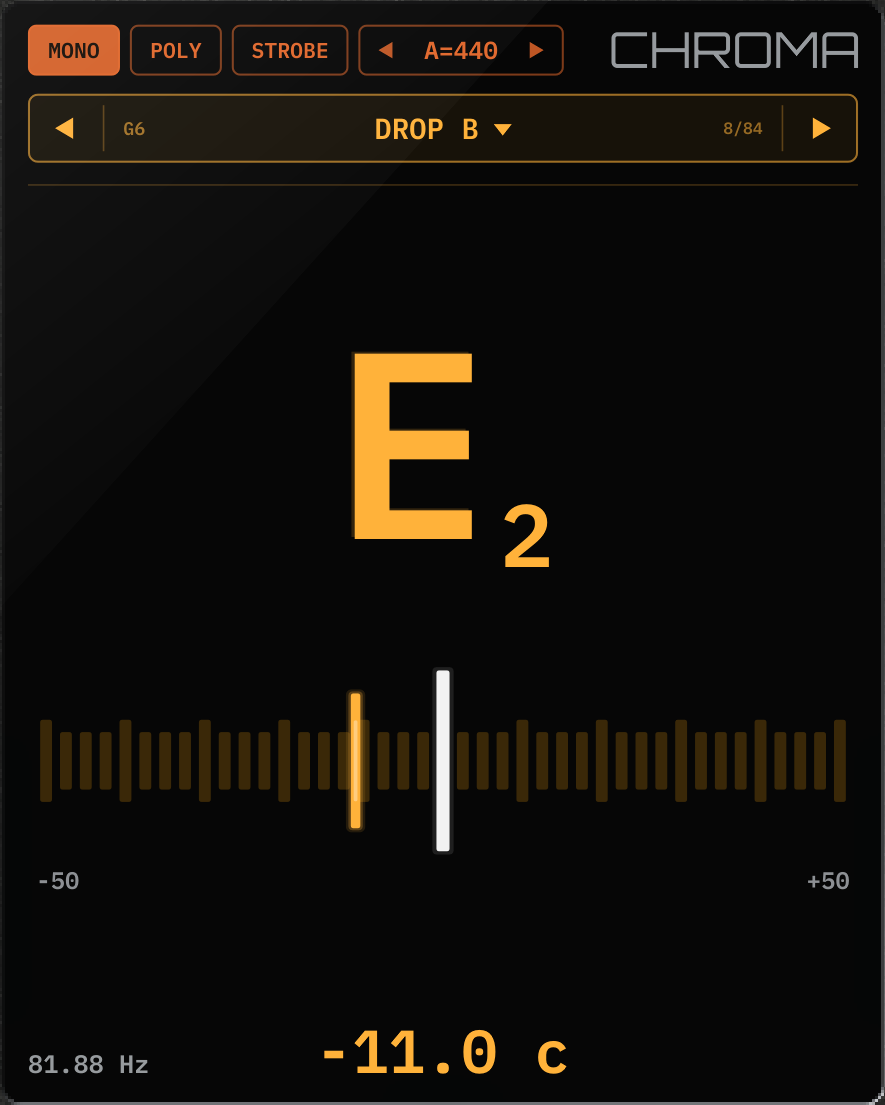
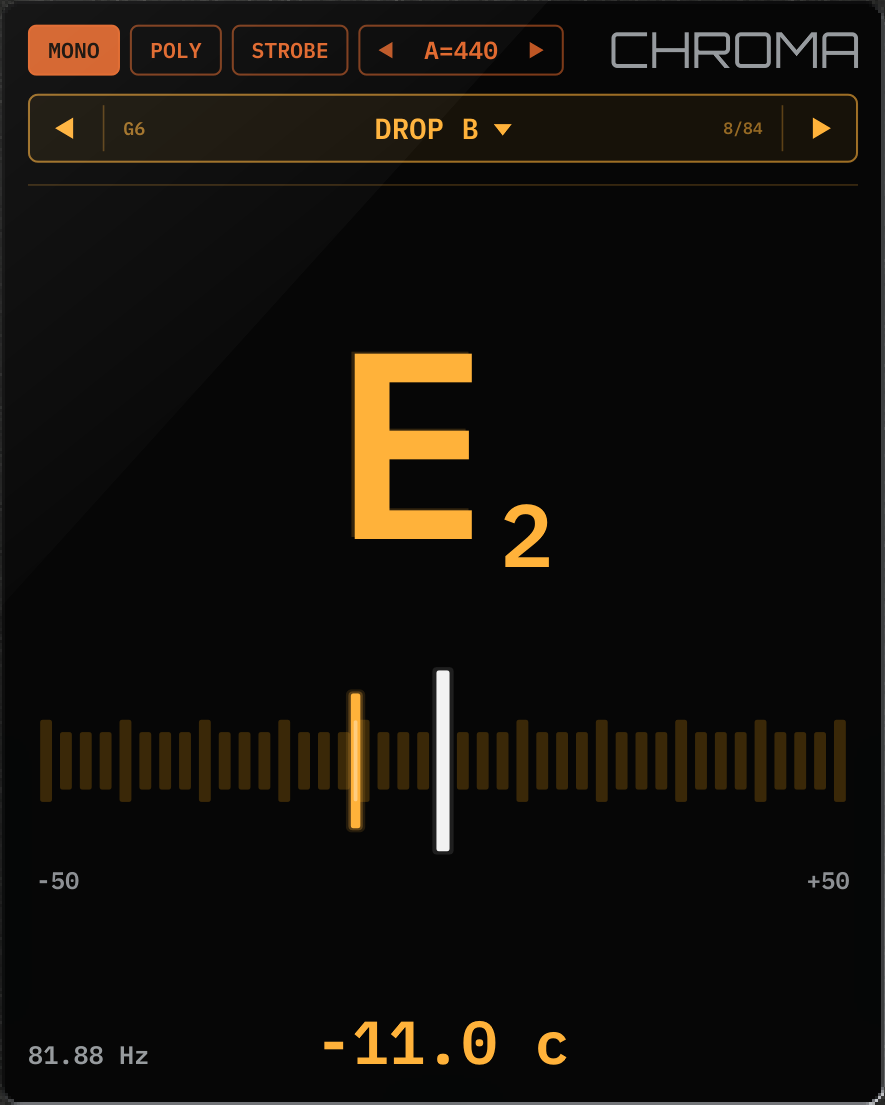
v2.0.3 : ligne du bas MONO remontee de 10
Claude-Session: https://claude.ai/code/session_012HH6mRf2cC7jwjeVzj71bC

Changed region(s): [[0.3661, 0.9231, 0.5797, 0.9846], [0.0305, 0.9231, 0.1831, 0.9846], [0.6102, 0.9231, 0.6407, 0.9846]]

diff --git a/PluginEditor.cpp b/PluginEditor.cpp
@@ -436,7 +436,7 @@ void TunaDisplay::paintMono (Graphics& g, const tuna::Snapshot& sn)
     g.drawText ("+50", Rectangle<float> (x1 - 120.0f, cy + 125.0f, 120.0f, 40.0f), Justification::centredRight);
 
     // valeurs : écart, fréquence et corde posés sur la même ligne de pied
-    const float base = kSH - 40.0f;     // ligne remontée de 10
+    const float base = kSH - 50.0f;     // ligne remontée (2 x 10)
     g.setFont (ed.fonts.mono (96.0f));
     g.setColour (col);
     const String cents = has ? ((sn.monoPrecise ? String() : String ("~")) + sign1 (c) + " c") : String ("-- c");

diff --git a/README.md b/README.md
@@ -53,7 +53,7 @@ Le job *Test du moteur d'accordage* compile `dsp_test.cpp` et vérifie la préci
   ne tombe sur aucun partiel d'une autre corde ; si toutes ses harmoniques sont partagées (cordes à l'octave dans les open tunings),
   la mesure reste juste quand les cordes sont accordées mais moins précise quand elles sont loin : finir en MONO.
 
-Notice d'utilisation (en français) : `docs/Chroma_Notice_FR_v2.0.2.pdf`.
+Notice d'utilisation (en français) : `docs/Chroma_Notice_FR_v2.0.3.pdf`.
 
 Polices IBM Plex Mono / Sans (licence SIL OFL, `OFL-IBM-Plex.txt`).
 
@@ -77,3 +77,4 @@ Polices IBM Plex Mono / Sans (licence SIL OFL, `OFL-IBM-Plex.txt`).
 - v2.0.0 : nouveau visuel (pédale plein cadre 1235 × 1800, finition peinture froissée, grand écran tactile qui remplace les potards MODE / TUNING / REF, logo CHROMA vectoriel, LED jaune, jacks, LED et footswitch du kit photo, logo NINE HANDS | DSP vectoriel), menus clic droit au design d'Octopus
 - v2.0.1 : MONO : écart, fréquence et corde alignés sur la même ligne de pied, note et barre remontées de 20 ; logo CHROMA du même gris que les infos de l'écran
 - v2.0.2 : MONO : ligne écart / fréquence / corde remontée de 10 ; textes de l'écran plus grands (MONO / POLY / STROBE, A=440, -50 / +50, Hz, corde, type et position de l'accordage)
+- v2.0.3 : MONO : ligne écart / fréquence / corde remontée encore de 10
